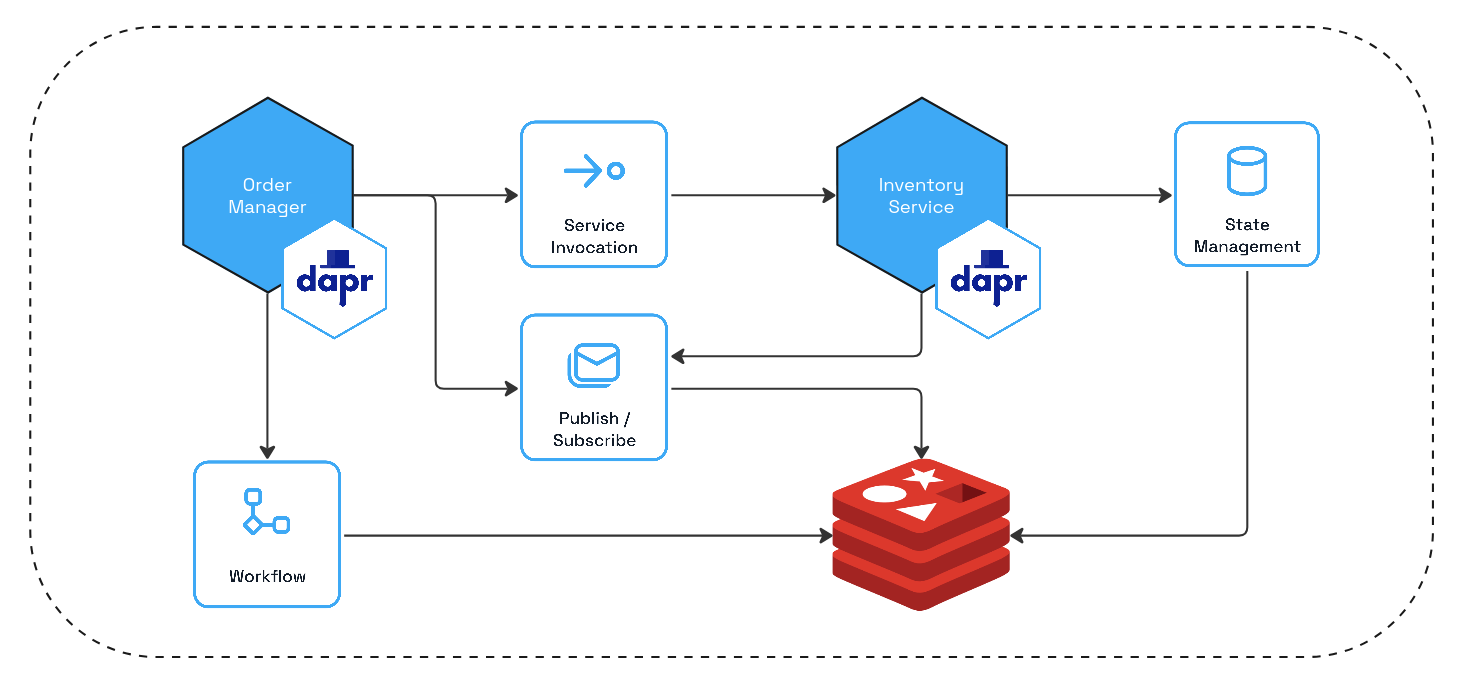
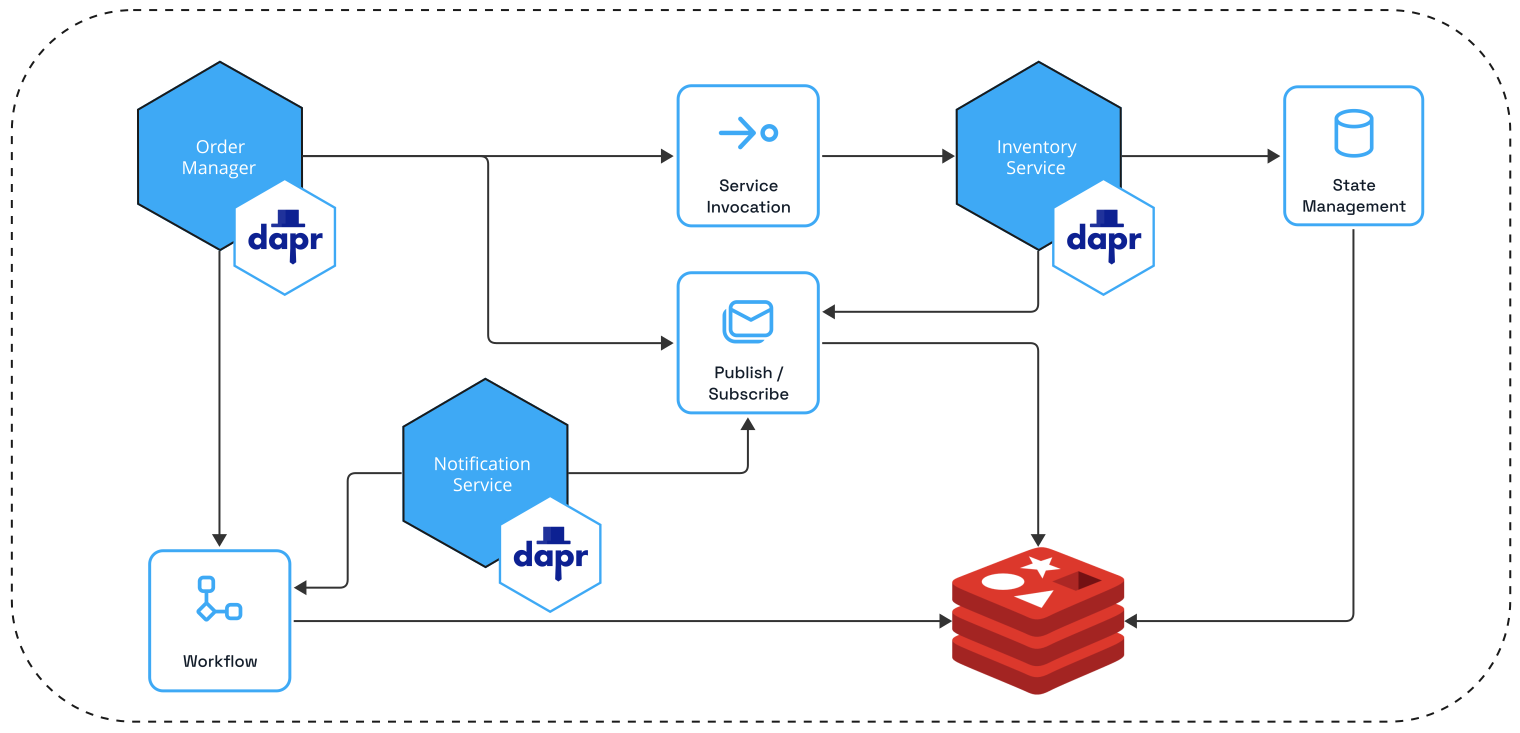
Update diagram.

diff --git a/NotificationService/NotificationServiceEndpointExtensions.cs b/NotificationService/NotificationServiceEndpointExtensions.cs
@@ -1,4 +1,3 @@
-using Dapr;
 using Dapr.Client;
 using Diagrid.Labs.Catalyst.OrderWorkflow.Common.ServiceDefaults;
 using Diagrid.Labs.Catalyst.OrderWorkflow.NotificationService.Hubs;
@@ -12,12 +11,10 @@ public static class NotificationServiceEndpointExtensions
     private static readonly List<NotificationViewModel> NotificationHistory = new();
     private static readonly object LockObject = new();
 
-    public static IEndpointRouteBuilder MapNotificationServiceEndpoints(this IEndpointRouteBuilder app)
+    public static void MapNotificationServiceEndpoints(this IEndpointRouteBuilder app)
     {
         // Pub/Sub subscription handler for order notifications
-        app.MapPost("/order-notification",
-            [Topic(ShopActivityPubSub.PubSubName, ShopActivityPubSub.OrderTopic)]
-            async (OrderStatusNotification notification, IHubContext<NotificationHub> hubContext) =>
+        app.MapPost("/order-notification", async (OrderStatusNotification notification, IHubContext<NotificationHub> hubContext) =>
         {
             Console.WriteLine($"Received order notification - Order ID: {notification.OrderId}, Status: {notification.Status}");
             var viewModel = new NotificationViewModel
@@ -50,7 +47,8 @@ public static class NotificationServiceEndpointExtensions
             return Results.Ok();
         })
         .WithName("OrderNotification")
-        .WithOpenApi();
+        .WithOpenApi()
+        .WithTopic(ShopActivityPubSub.PubSubName, ShopActivityPubSub.OrderTopic);
 
         // Get notification history
         app.MapGet("/notifications/history", () =>
@@ -105,7 +103,5 @@ public static class NotificationServiceEndpointExtensions
         })
         .WithName("CreateOrder")
         .WithOpenApi();
-
-        return app;
     }
 }
